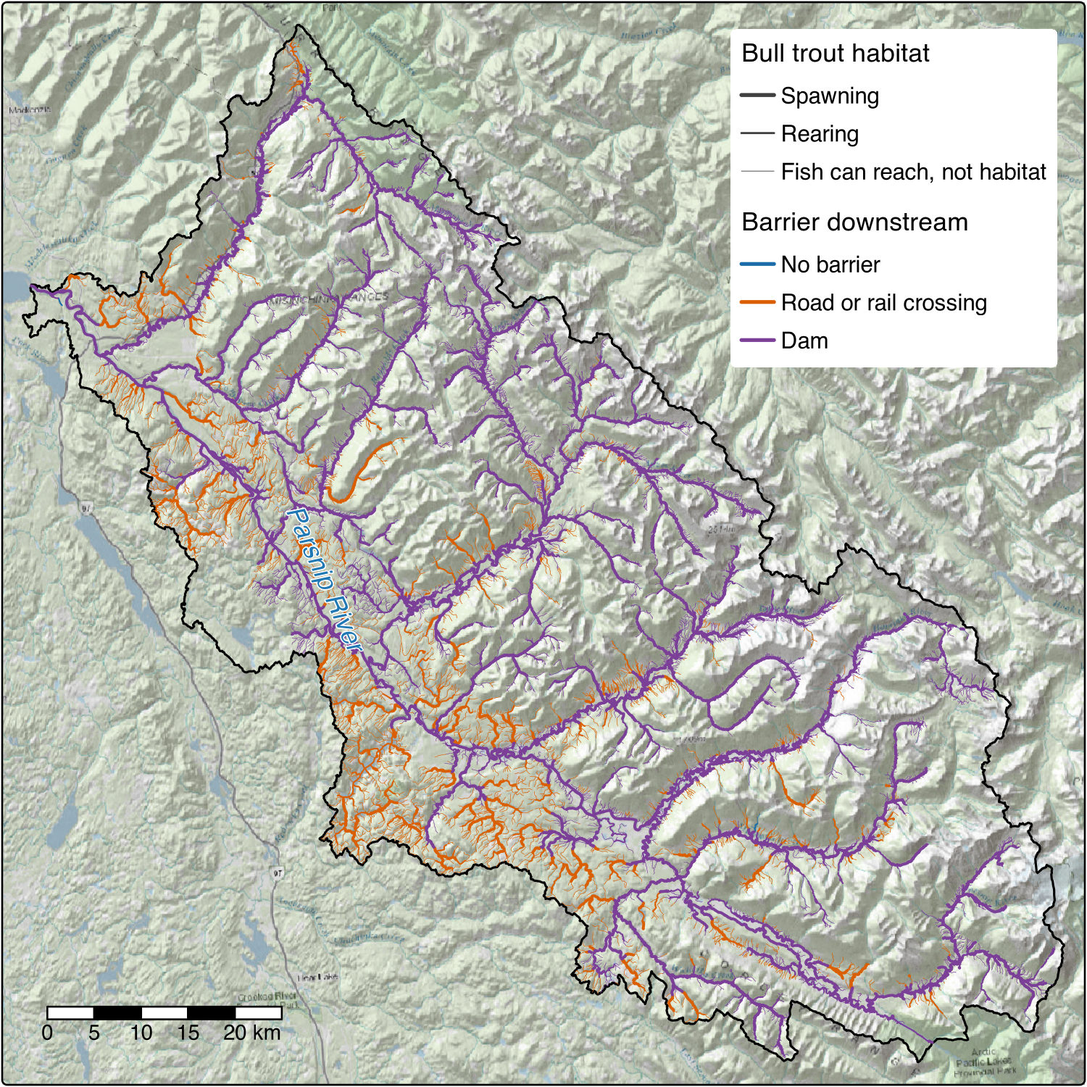
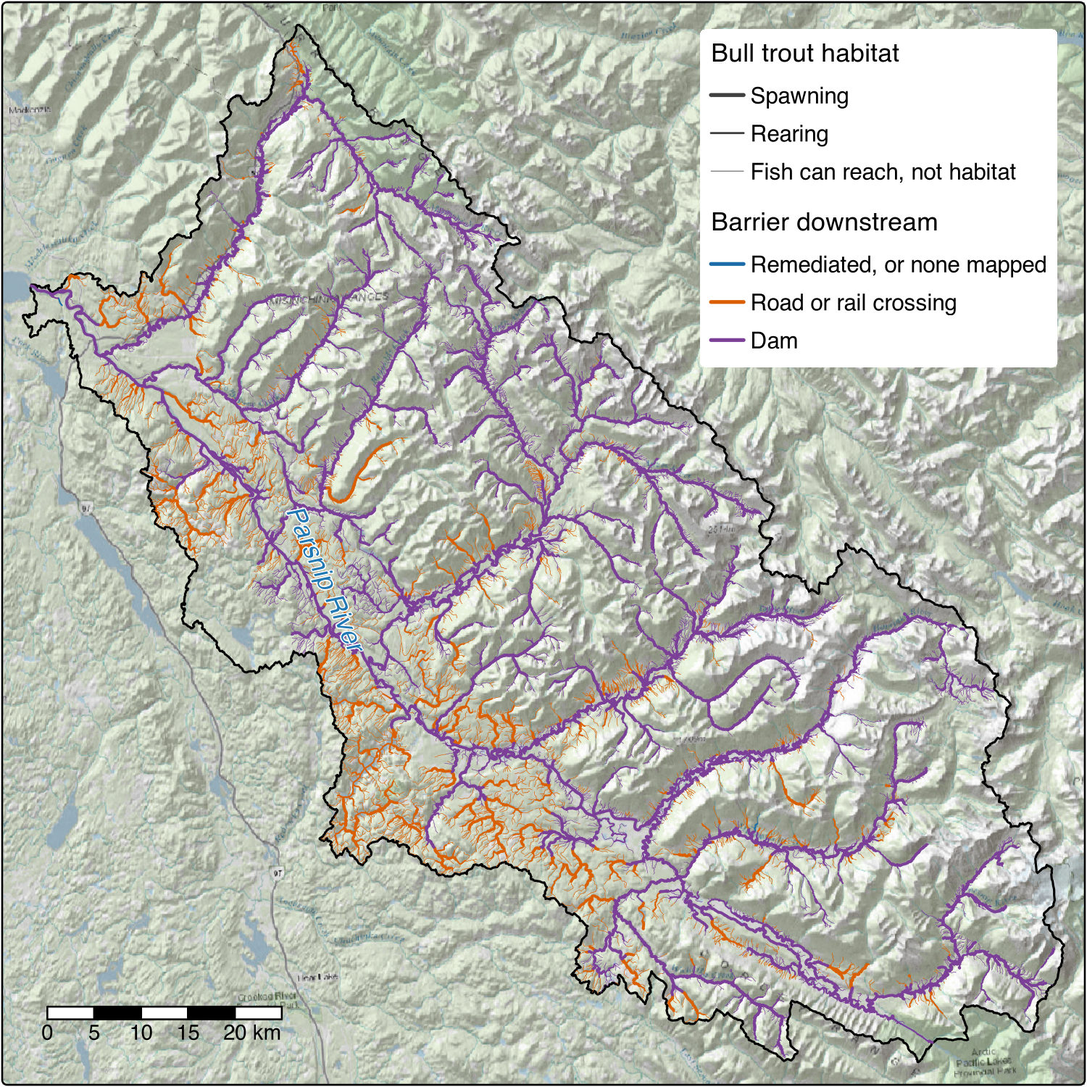
Code-check round 1 fixes (#65)
The link legend no longer says "No barrier" for reaches that can have one below
them. The Bulkley script header names its database read. The fresh script accepts
a relative path.

Claude-Session: https://claude.ai/code/session_015Jk6BLCJR6akr2dUiE5A8m

Changed region(s): [[0.644, 0.0, 0.9507, 0.3373]]

diff --git a/planning/active/review-round1.md b/planning/active/review-round1.md
@@ -1,0 +1,35 @@
+# Code check, round 1, #65
+
+Reviewed at `7b3b590` against origin/main at `6ba5097`. Sibling tools read from their origin/main after a fetch on 2026-11-01.
+
+## Checklist read
+
+- `code-check-python.md`: in full (no Python in the diff).
+- `code-check.md`: every H3 under `## Mechanisms`, prose only; also "A link to a repo-hosted artifact must be *tracked*, not merely present". The other 22 H3s not read.
+- `code-check-r.md`: "`on.exit()` at a script's top level never fires", "Regenerated binaries churn git even when nothing changed", "A `data-raw/` script must load the source tree, not the installed package", "`ifelse()` with an all-NA test returns a logical vector, whatever `yes` and `no` are". 111 not read.
+- `code-check-spatial.md`: "FWA main flow is not edge type 1000 alone", "bcdata: `filter()` translates the calls inside it, so build strings, value lists and transforms before the query", "`terra::rast()` on a SpatRaster returns an empty template, not a copy", "A raster's drawn footprint is its valid data, not its extent". 90 not read.
+- `code-check-shell.md`: none; the diff has no shell. 70 not read.
+
+## Findings
+
+- **[severity: bug]** scripts/figure_link-bull-trout.R:28-31, content/project/open_source_software/link_bull_trout.jpg — the map's legend says "No barrier" under the title "Barrier downstream", and that label is unsupported for the reaches it colours.
+  - The script gives every code without DAM, MODELLED or ASSESSED the class `none`, labelled "No barrier". That catches REMEDIATED. link's `lnk_pipeline_mapping_code()` puts REMEDIATED first in its case order (REMEDIATED > DAM > ASSESSED > MODELLED > NONE), so a REMEDIATED reach can still have a dam or a crossing below it.
+  - The page's caption says purple reaches drain to Williston Reservoir behind the W.A.C. Bennett Dam. link's run logs put that dam below the whole Parsnip group, as a blocking dam in PCEA. So no reach on this map is free of a barrier downstream. Link's README caption for its own Parsnip map has no "no barrier" class.
+  - Blue reaches are drawn on the published image, in the lower right near the middle of the frame (roughly x 1040, y 1140 of 1500). I did not query which token they carry, because the brief bars the database, so REMEDIATED is the inference and NONE is not excluded by reading alone. The label is wrong for either unless a reach truly has no dam below it.
+  - The legend is burned into the image, so the fix needs a redraw: label the class for what it is (for example "Remediated crossing"), and give NONE its own treatment if any such row exists. A count of `mapping_code_bt` tokens for PARS settles which.
+  - The script's header (line 4) gives the vocabulary as `{ACCESS|SPAWN|REAR};{DAM|MODELLED|ASSESSED|REMEDIATED}`. link's own documented vocabulary also has NONE in the second token, which the header omits and the `none` class silently absorbs.
+  - **Rule:** code-check.md "A proxy is not the property"
+
+- **[severity: fragile]** scripts/figure_knowledge-bulkley.R:1-9, 65 — the header does not say the script reads a database, and CLAUDE.md:73 says "Each script's header says what it reads". Line 65 calls `rivers_of("Bulkley River")`, which connects to PostgreSQL through the `PG*` variables when the river is not cached. The header's run line sets only `CACHE_DIR`, `OUT_DIR`, `CAT_DIR` and `KNOWLEDGE_GPKG`, so a first run from a clean cache, following the header, stops at the end of the script with a connection error, after the tile fetch and the join have run. `figure_helpers.R` states the requirement, and `figure_link-bull-trout.R` states it in its own header; this one does not.
+  - **Rule:** none
+
+- **[severity: fragile]** scripts/figure_fresh-subbasin.R:4, 12 — the header says "Run from any directory" and takes `FRESH_RMD=<file>`, but a relative `FRESH_RMD` passes the `file.exists()` check and then fails, because `setwd(dir_out)` runs before `knitr::knit(rmd)`. Reproduced with the same three calls on a stub Rmd: a relative path gives `cannot open file 'a/t.Rmd'`, and an absolute path knits. Normalising the path before `setwd()`, or saying "absolute path" in the header, closes it.
+  - **Rule:** none
+
+## Checked, no finding
+
+- **Copy:** each new sentence on the page traces to its source. knowledge to its README, the opening of `habitat_thresholds.Rmd` and the post's opening; flooded to its README and `fl_valley_join()`; the post link and the two article links answer 200.
+- **Images:** each new or changed image was viewed against its caption. cd's period matches its generator (`kootenay_lake_vignette_data.R`). The flooded map's wide dark class is correct: the recipe draws the widest scenario first and each narrower one over it, so orange and teal show only what the wider scenarios add. All JPEGs are 4:4:4, all new images are within the limits, and the knowledge sticker's corners are transparent like its neighbours'.
+- **Scripts against the recipe:** `figure_knowledge-bulkley.R` matches `cells_of()` and `map_cells()`. `rivers_of()` uses a different `edge_type` list from the recipe and from "FWA main flow is not edge type 1000 alone", but it feeds only river labels, and both labels sit correctly on the landed maps.
+- **Build:** the Hugo build into a temp directory gives 12 figures, the knowledge anchor resolves, and nothing else references the deleted images.
+- **Public repo:** a grep of the diff and commit messages, a strings scan of the changed images, and a read of `planning/active/` found no home paths, hosts, private repo names or client names.

diff --git a/planning/active/findings.md b/planning/active/findings.md
@@ -112,6 +112,7 @@ The issue's closing sentence on thin evidence and its "compares each with the cu
 
 - **Link data:** the map reads `mapping_code_bt` from link's persisted schema, not knowledge's GeoPackages as planned, because it carries barrier type and exclusive habitat classes. The tokens are from `link::lnk_mapping_code()`.
 - **Wrong turn kept:** the first link draw took 7 min and showed streams outside the Parsnip. `id_segment` repeats between watershed groups, so a join on it alone returned 3,674,504 rows for 97,534 segments. Joining on the group code too gives 97,534 rows, and the draw takes about 30 s.
+- **Remediated reaches:** the first legend said "No barrier" for 19 segments (16 REMEDIATED, 3 with no barrier token). REMEDIATED outranks the other tokens in link, so another barrier can sit below them. Legend now reads "Remediated, or none mapped" (code-check round 1).
 - **Reproducing:** comparison is visual, because tiles can change. tmap 4.2.0.9000, gq 0.16.1, flooded 0.8.4.
 
 ## Errors Encountered
